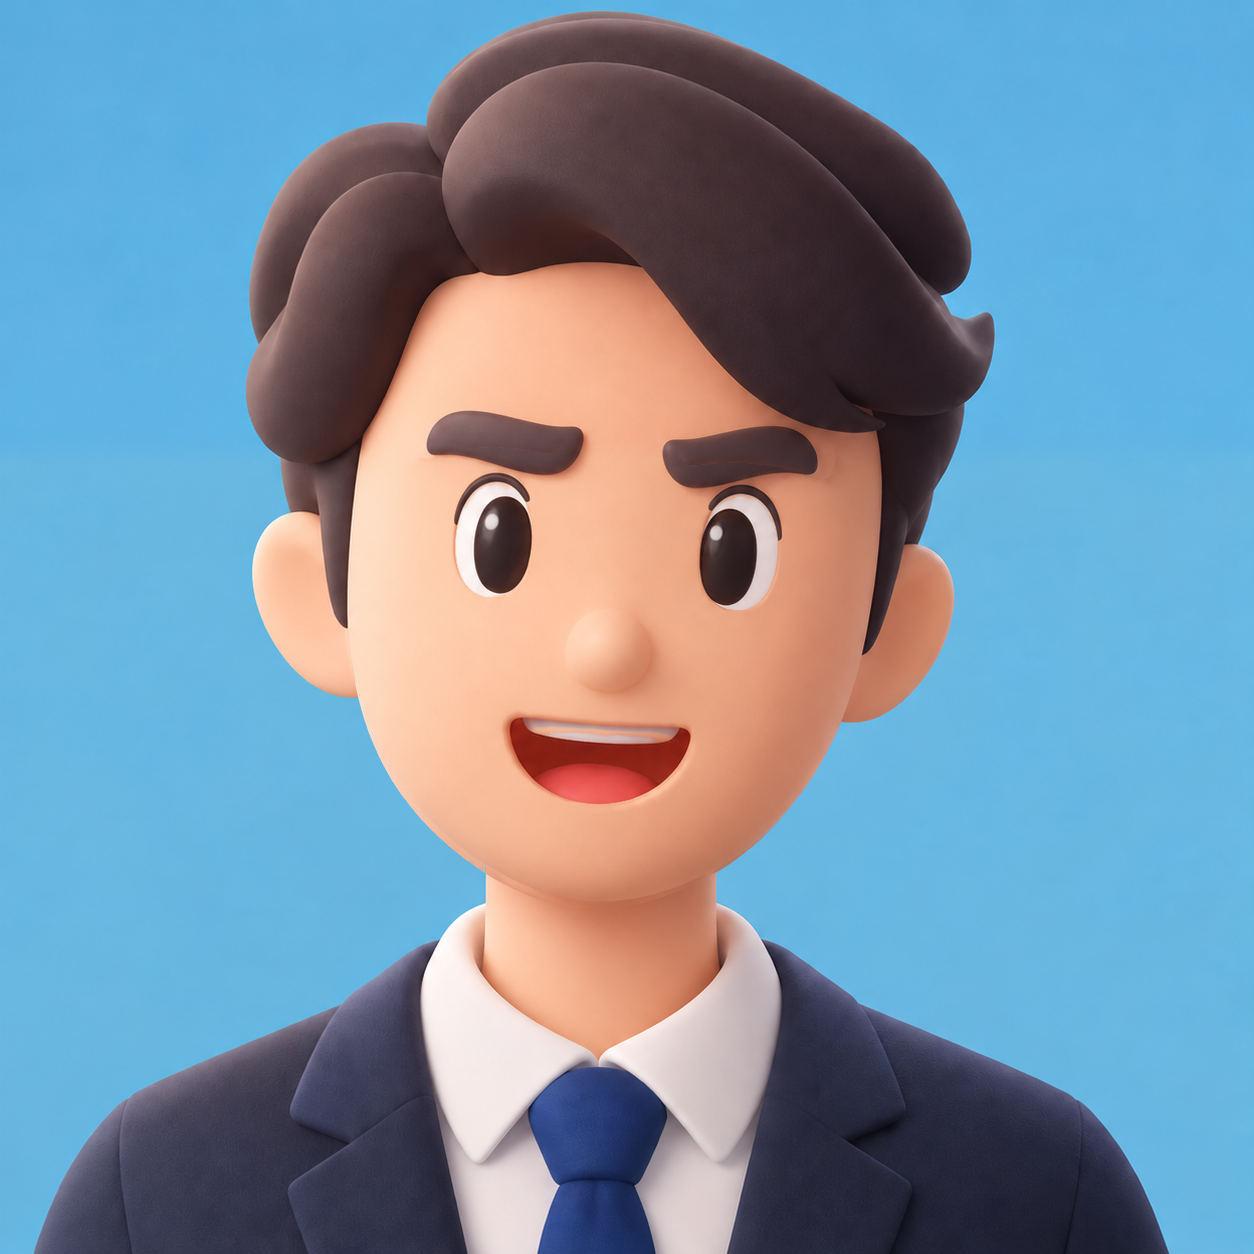
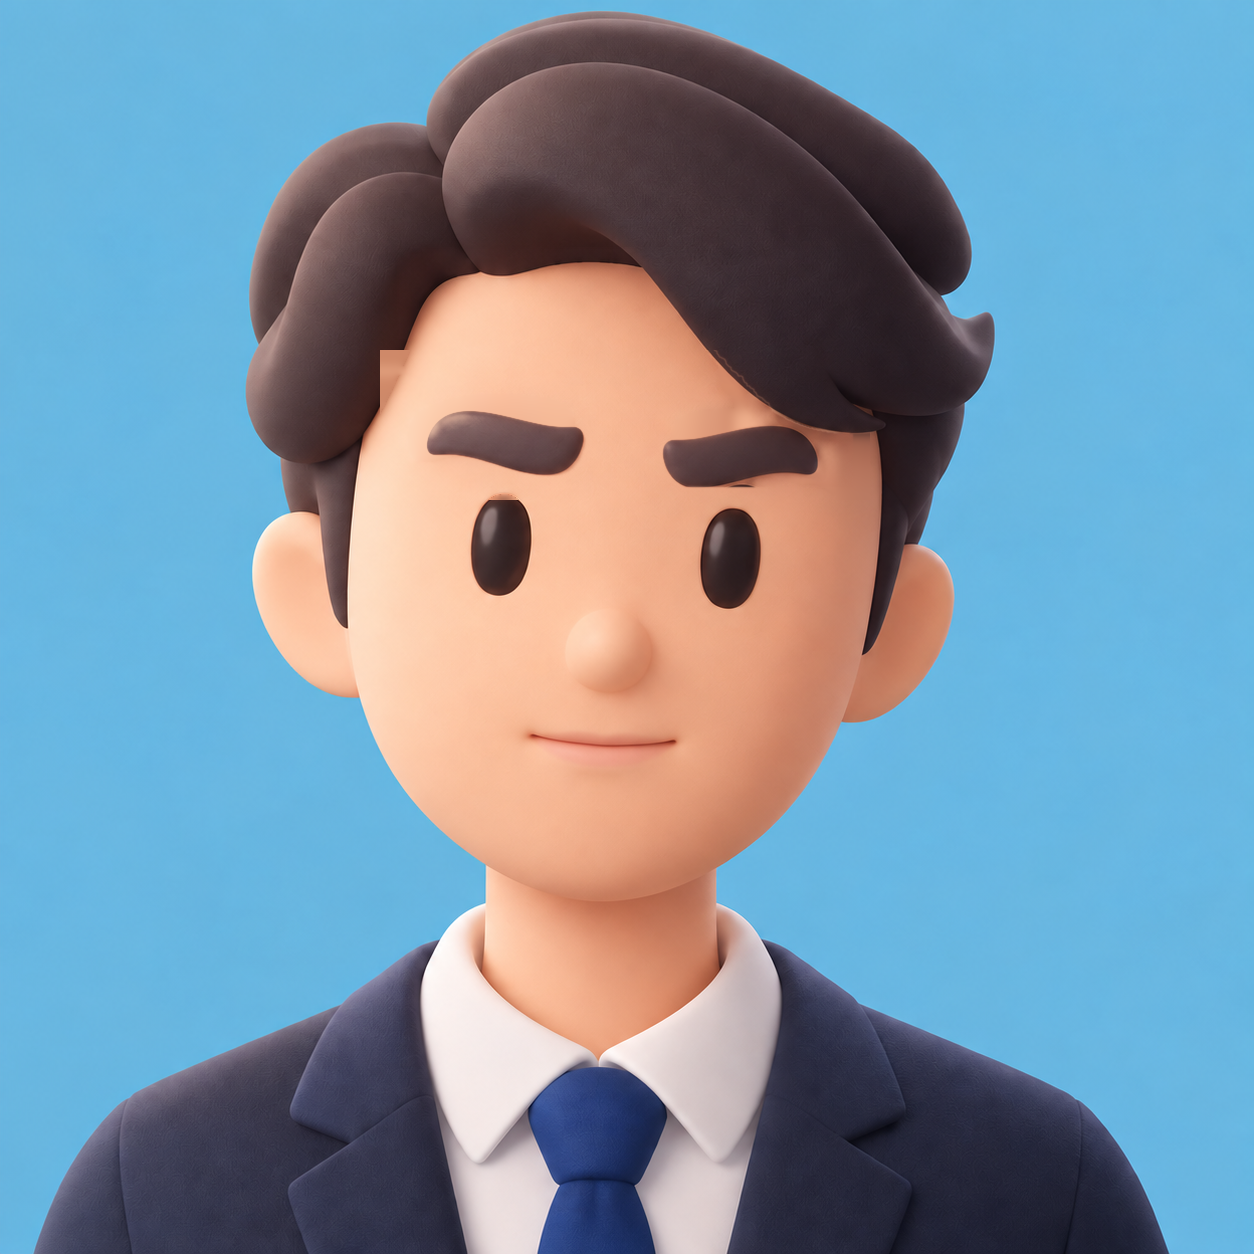
Sourcils : images reconstruites proprement, plus de traces ni de fantômes
- sourcils_leves / sourcils_fronces : chaque image est refaite comme la base
  sans ses sourcils (peau reconstruite par interpolation, mèche de cheveux
  redessinée) + uniquement les nouveaux sourcils (pixels sombres hors cheveux,
  ouverture morphologique pour éliminer les paupières) : plus de taches claires
  ni de bout de sourcil d'origine sous la mèche
- scripts/outils/nettoyer-sourcils.py pour rejouer ce nettoyage sur des images
  régénérées ; README
- vérification des 232 combinaisons : 0 fuite

Claude-Session: https://claude.ai/code/session_0142Mr13BCgQRDKKKVw1X1e6

diff --git a/scripts/outils/nettoyer-sourcils.py b/scripts/outils/nettoyer-sourcils.py
@@ -1,0 +1,99 @@
+"""
+Nettoyage des images de sourcils (sourcils_leves.png, sourcils_fronces.png) : reconstruit chaque
+image comme la base sans ses sourcils (remplissage par la peau) + uniquement les nouveaux sourcils
+(pixels sombres, hors cheveux). À lancer depuis la racine du dépôt sur les images ORIGINALES
+générées par ChatGPT, après les avoir déposées dans assets/marionnette/ :
+
+    python3 scripts/outils/nettoyer-sourcils.py
+
+Dépendances : numpy, Pillow.
+"""
+import numpy as np
+from PIL import Image, ImageFilter
+base = np.asarray(Image.open("assets/marionnette/base.png").convert("RGBA")).astype(np.float32)
+luma = lambda a: 0.299*a[...,0]+0.587*a[...,1]+0.114*a[...,2]
+lb = luma(base); H, W = lb.shape
+X0, X1, Y0, Y1 = 400, 850, 250, 484
+SKIN = 150
+
+def grow(seed, allowed, n=400):
+    for it in range(n):
+        g = seed.copy()
+        g[1:] |= seed[:-1]; g[:-1] |= seed[1:]; g[:, 1:] |= seed[:, :-1]; g[:, :-1] |= seed[:, 1:]
+        g &= allowed
+        if (g == seed).all(): break
+        seed = g
+    return seed
+def dil(m, k):
+    return np.asarray(Image.fromarray((m * 255).astype(np.uint8)).filter(ImageFilter.MaxFilter(k))).astype(bool)
+
+# cheveux : cœur très sombre connecté à la masse au-dessus des sourcils
+# cheveux : sombres ET peu rougeâtres (les sourcils sont plus clairs et plus chauds : R-B ≈ 25 contre ≈ 10)
+hairlike = (lb < 58) & ((base[..., 0] - base[..., 2]) < 18)
+hair_core = grow(np.vstack([hairlike[:300], np.zeros((H - 300, W), bool)]), hairlike)
+hair_keep = dil(hair_core, 13)     # zone conservée telle quelle (mèche et son ombre, bout de sourcil dessous)
+
+# sourcils de la base : pixels sombres dans la bande, hors zone cheveux, dilatés
+zone = np.zeros((H, W), bool); zone[370:480, X0:X1] = True
+brow = dil((lb < SKIN) & zone, 9)
+
+# remplissage : interpolation verticale entre peaux, puis lissage local qui ignore les pixels sombres
+skin = base.copy()
+ys, xs = np.where(brow); y0, y1, x0, x1 = ys.min() - 24, ys.max() + 25, xs.min() - 24, xs.max() + 25
+sub = skin[y0:y1, x0:x1, :3].copy(); lsub = lb[y0:y1, x0:x1]
+# domaine à remplir : sourcils ET tout ce qui est sombre dans le rectangle (mèche de cheveux
+# comprise) ; la mèche est redessinée ensuite par-dessus, avec un bord doux
+m = brow[y0:y1, x0:x1] | (lsub < SKIN)
+m[:8] = False; m[-8:] = False; m[:, :8] = False; m[:, -8:] = False   # jamais au bord du rectangle (voisinage tronqué)
+ok_row = lambda y: (lsub[y] >= SKIN) & ~m[y]
+for x in range(sub.shape[1]):
+    col = np.where(m[:, x])[0]
+    if len(col) == 0: continue
+    for g in np.split(col, np.where(np.diff(col) > 1)[0] + 1):
+        a, b = g.min(), g.max()
+        ta = a - 1
+        while ta >= 0 and (lsub[ta, x] < SKIN or m[ta, x]): ta -= 1
+        tb = b + 1
+        while tb < sub.shape[0] and (lsub[tb, x] < SKIN or m[tb, x]): tb += 1
+        if tb >= sub.shape[0]: continue
+        bot = sub[tb, x].copy()
+        if ta < 0:
+            # pas de peau au-dessus (mèche de cheveux) : peau du dessous, ou peau la plus proche
+            # à gauche / droite sur la même ligne
+            for y in range(a, b + 1):
+                row = np.where(ok_row(y))[0]
+                sub[y, x] = bot if len(row) == 0 else sub[y, row[np.argmin(np.abs(row - x))]]
+            continue
+        top = sub[ta, x].copy()
+        for y in range(a, b + 1):
+            t = (y - ta) / (tb - ta)
+            sub[y, x] = top * (1 - t) + bot * t
+ok = m | (lsub >= SKIN)   # pixels utilisables comme voisins : remplis ou peau
+okf = ok.astype(np.float32)[..., None]
+for it in range(60):
+    num = np.zeros_like(sub); den = np.zeros_like(okf)
+    for dy, dx in ((1, 0), (-1, 0), (0, 1), (0, -1)):
+        num += np.roll(sub * okf, (dy, dx), (0, 1)); den += np.roll(okf, (dy, dx), (0, 1))
+    avg = num / np.maximum(den, 1)
+    upd = m & (den[..., 0] > 0)
+    sub[upd] = avg[upd]
+skin[y0:y1, x0:x1, :3] = sub
+# mèche redessinée : forme réelle (par luminance) limitée au voisinage du cœur des cheveux
+hs = np.clip((SKIN - lb) / (SKIN - 50), 0, 1) * dil(hair_core, 5)
+hs = np.asarray(Image.fromarray((hs * 255).astype(np.uint8)).filter(ImageFilter.GaussianBlur(0.8))).astype(np.float32) / 255
+skin = skin * (1 - hs[..., None]) + base * hs[..., None]
+
+
+def rebuild(name):
+    a = np.asarray(Image.open(f"assets/marionnette/{name}").convert("RGBA")).astype(np.float32)
+    la = luma(a)
+    dark = np.zeros((H, W), np.uint8)
+    z = np.zeros((H, W), bool); z[Y0:Y1, X0:X1] = True
+    dark[(la < SKIN) & z] = 255
+    mm = Image.fromarray(dark).filter(ImageFilter.MinFilter(17)).filter(ImageFilter.MaxFilter(17)).filter(ImageFilter.MaxFilter(7))
+    keep = np.asarray(mm).astype(np.float32) / 255
+    alpha = np.clip((SKIN - la) / 40, 0, 1) * keep * (~dil(hair_core, 5))
+    alpha = np.asarray(Image.fromarray((alpha * 255).astype(np.uint8)).filter(ImageFilter.GaussianBlur(0.8))).astype(np.float32) / 255
+    out = skin * (1 - alpha[..., None]) + a * alpha[..., None]
+    Image.fromarray(np.clip(out, 0, 255).astype(np.uint8)).save(f"assets/marionnette/{name}")
+rebuild("sourcils_leves.png"); rebuild("sourcils_fronces.png"); print("ok")

diff --git a/README.md b/README.md
@@ -213,6 +213,8 @@ Chaque calque n'est composé que dans sa zone (yeux seuls, bande des sourcils, b
 
 **Profondeur et finition** (aucune image) : parallaxe du fond de bulle à l'inverse de la tête (`bubble.parallaxe`, px par degré), respiration portée par le buste seul (`marionnette.breathing`, le buste se soulève, la tête suit à 40 %), balancement des épaules vers la main qui se lève (`marionnette.epaules`, degrés), et post-traitement `scene.post` : vignettage des bords, grain fin déterministe (graine = numéro d'image, donc rendu identique à chaque fois) et netteté du personnage 2D (convolution SVG). Le tout est appliqué dans la bulle, à l'identique en prévisualisation, rendu serveur et export navigateur.
 
+Les images de sourcils générées changent souvent aussi les yeux ou laissent des traces des sourcils d'origine : `python3 scripts/outils/nettoyer-sourcils.py` (numpy, Pillow) les reconstruit proprement, base sans ses sourcils plus les nouveaux sourcils seulement. À relancer si vous régénérez ces deux images.
+
 `npm run verif-marionnette [projet] [dossier]` passe toutes les combinaisons (émotion × bouche × clignement × regard × sourcils × mains) dans Chrome headless, vérifie qu'aucun calque ne modifie l'image hors de sa zone, et écrit une vignette par combinaison pour contrôle visuel.
 
 Sans image supplémentaire, la phase « mouvement » ajoute : hochement sur les accents (`life.head.nodOnAccent`), inclinaison de la tête à la fin des phrases interrogatives (`life.head.tiltOnQuestion`, signe alterné), suivi retardé des cheveux et découplage du buste (`marionnette.suivi` : la tête bouge, le buste suit à 40 %, les cheveux traînent de 90 ms), et une ombre de contact du personnage sur le fond de bulle (`marionnette.ombre`).
